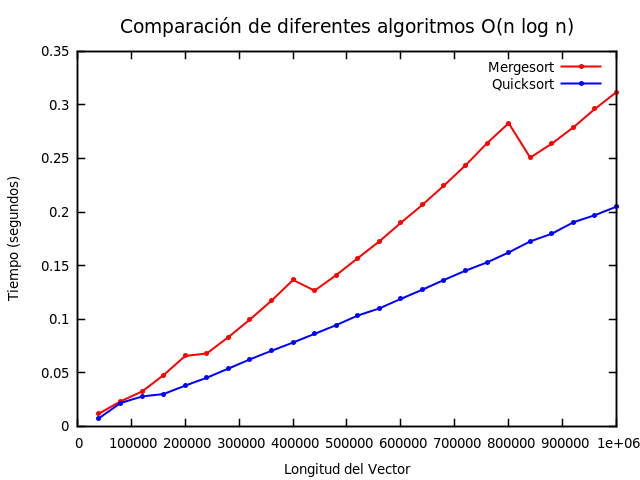
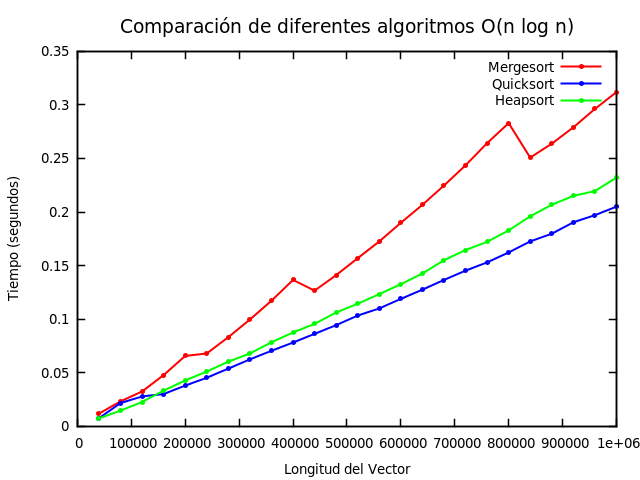
Tablas arregladas y conclusion

diff --git a/Practica1/Code/TablasIvan/ordenacion.md b/Practica1/Code/TablasIvan/ordenacion.md
@@ -1,29 +1,29 @@
 # Tabla con los algoritmos de ordenación
 
-| Tamaño del Vector | Burbuja | Seleccion | Insercion | Mergesort | Quicksort |
-|-------------------|---------|-----------|-----------|-----------|-----------|
-|1000|0.006005|0.002077|0.001556|0.000178|0.000123|
-|2000|0.013009|0.008372|0.006933|0.000378|0.000301|
-|3000|0.028586|0.017298|0.020688|0.000708|0.000462|
-|4000|0.052107|0.029546|0.026156|0.000803|0.000639|
-|5000|0.083935|0.045445|0.040392|0.001135|0.000808|
-|6000|0.123499|0.065005|0.05815|0.002106|0.001114|
-|7000|0.17103|0.088198|0.078129|0.002738|0.001955|
-|8000|0.227898|0.114839|0.101417|0.001708|0.002313|
-|9000|0.294088|0.14506|0.128429|0.003901|0.002048|
-|10000|0.36888|0.178768|0.158755|0.003019|0.001582|
-|11000|0.452901|0.216155|0.191793|0.002893|0.003292|
-|12000|0.549637|0.256883|0.225829|0.004241|0.003071|
-|13000|0.649903|0.301306|0.262103|0.003305|0.002265|
-|14000|0.762361|0.349111|0.308845|0.003548|0.003492|
-|15000|0.875838|0.400571|0.352356|0.00665|0.003588|
-|16000|1.00659|0.455507|0.401839|0.004244|0.004905|
-|17000|1.14363|0.514058|0.45315|0.004242|0.004308|
-|18000|1.2852|0.576172|0.510161|0.005128|0.003976|
-|19000|1.44633|0.641696|0.569472|0.00533|0.003155|
-|20000|1.60461|0.71082|0.629753|0.005822|0.003586|
-|21000|1.77363|0.78381|0.69072|0.005668|0.006296|
-|22000|1.95267|0.859622|0.763707|0.006892|0.005901|
-|23000|2.14881|0.939323|0.823806|0.00816|0.005296|
-|24000|2.34085|1.02277|0.903917|0.006629|0.004751|
-|25000|2.55087|1.10954|0.978268|0.007892|0.003898|
+| Tamaño del Vector | Burbuja | Seleccion | Insercion | Mergesort | Quicksort | Heapsort |
+|-------------------|---------|-----------|-----------|-----------|-----------|----------|
+|1000|0.006005|0.002077|0.001556|0.000178|0.000123|0.000187|
+|2000|0.013009|0.008372|0.006933|0.000378|0.000301|0.000661|
+|3000|0.028586|0.017298|0.020688|0.000708|0.000462|0.001007|
+|4000|0.052107|0.029546|0.026156|0.000803|0.000639|0.001005|
+|5000|0.083935|0.045445|0.040392|0.001135|0.000808|0.001097|
+|6000|0.123499|0.065005|0.05815|0.002106|0.001114|0.001292|
+|7000|0.17103|0.088198|0.078129|0.002738|0.001955|0.001561|
+|8000|0.227898|0.114839|0.101417|0.001708|0.002313|0.001949|
+|9000|0.294088|0.14506|0.128429|0.003901|0.002048|0.00357|
+|10000|0.36888|0.178768|0.158755|0.003019|0.001582|0.00398|
+|11000|0.452901|0.216155|0.191793|0.002893|0.003292|0.004094|
+|12000|0.549637|0.256883|0.225829|0.004241|0.003071|0.002478|
+|13000|0.649903|0.301306|0.262103|0.003305|0.002265|0.002733|
+|14000|0.762361|0.349111|0.308845|0.003548|0.003492|0.003433|
+|15000|0.875838|0.400571|0.352356|0.00665|0.003588|0.006062|
+|16000|1.00659|0.455507|0.401839|0.004244|0.004905|0.005572|
+|17000|1.14363|0.514058|0.45315|0.004242|0.004308|0.005664|
+|18000|1.2852|0.576172|0.510161|0.005128|0.003976|0.006531|
+|19000|1.44633|0.641696|0.569472|0.00533|0.003155|0.007887|
+|20000|1.60461|0.71082|0.629753|0.005822|0.003586|0.005677|
+|21000|1.77363|0.78381|0.69072|0.005668|0.006296|0.007349|
+|22000|1.95267|0.859622|0.763707|0.006892|0.005901|0.005819|
+|23000|2.14881|0.939323|0.823806|0.00816|0.005296|0.007474|
+|24000|2.34085|1.02277|0.903917|0.006629|0.004751|0.00371|
+|25000|2.55087|1.10954|0.978268|0.007892|0.003898|0.004459|

diff --git a/Practica1/Code/TablasIvan/nlogn.md b/Practica1/Code/TablasIvan/nlogn.md
@@ -1,29 +1,29 @@
 # Tabla con los algoritmos n log n
 
-| Tamaño del Vector | Mergesort | Quicksort |
-|-------------------|-----------|-----------|
-|40000|0.011799|0.007532|
-|80000|0.023232|0.021698|
-|120000|0.032477|0.027883|
-|160000|0.047851|0.030096|
-|200000|0.065655|0.037929|
-|240000|0.067975|0.045323|
-|280000|0.08319|0.05384|
-|320000|0.09966|0.062471|
-|360000|0.117214|0.070431|
-|400000|0.136629|0.078202|
-|440000|0.126591|0.086264|
-|480000|0.141111|0.09437|
-|520000|0.156894|0.103365|
-|560000|0.172588|0.11004|
-|600000|0.189948|0.118913|
-|640000|0.206718|0.127529|
-|680000|0.224685|0.136604|
-|720000|0.243657|0.145246|
-|760000|0.264283|0.152946|
-|800000|0.282993|0.162257|
-|840000|0.250793|0.172589|
-|880000|0.263776|0.179709|
-|920000|0.279027|0.190398|
-|960000|0.296223|0.19708|
-|1000000|0.311921|0.204994|
+| Tamaño del Vector | Mergesort | Quicksort | Heapsort |
+|-------------------|-----------|-----------|----------|
+|40000|0.011799|0.007532|0.007375|
+|80000|0.023232|0.021698|0.014605|
+|120000|0.032477|0.027883|0.022696|
+|160000|0.047851|0.030096|0.033277|
+|200000|0.065655|0.037929|0.042759|
+|240000|0.067975|0.045323|0.051125|
+|280000|0.08319|0.05384|0.060332|
+|320000|0.09966|0.062471|0.067957|
+|360000|0.117214|0.070431|0.078426|
+|400000|0.136629|0.078202|0.087562|
+|440000|0.126591|0.086264|0.095579|
+|480000|0.141111|0.09437|0.10625|
+|520000|0.156894|0.103365|0.114387|
+|560000|0.172588|0.11004|0.123373|
+|600000|0.189948|0.118913|0.132549|
+|640000|0.206718|0.127529|0.142614|
+|680000|0.224685|0.136604|0.154993|
+|720000|0.243657|0.145246|0.164485|
+|760000|0.264283|0.152946|0.172095|
+|800000|0.282993|0.162257|0.182847|
+|840000|0.250793|0.172589|0.196012|
+|880000|0.263776|0.179709|0.206803|
+|920000|0.279027|0.190398|0.215063|
+|960000|0.296223|0.19708|0.219557|
+|1000000|0.311921|0.204994|0.232095|
